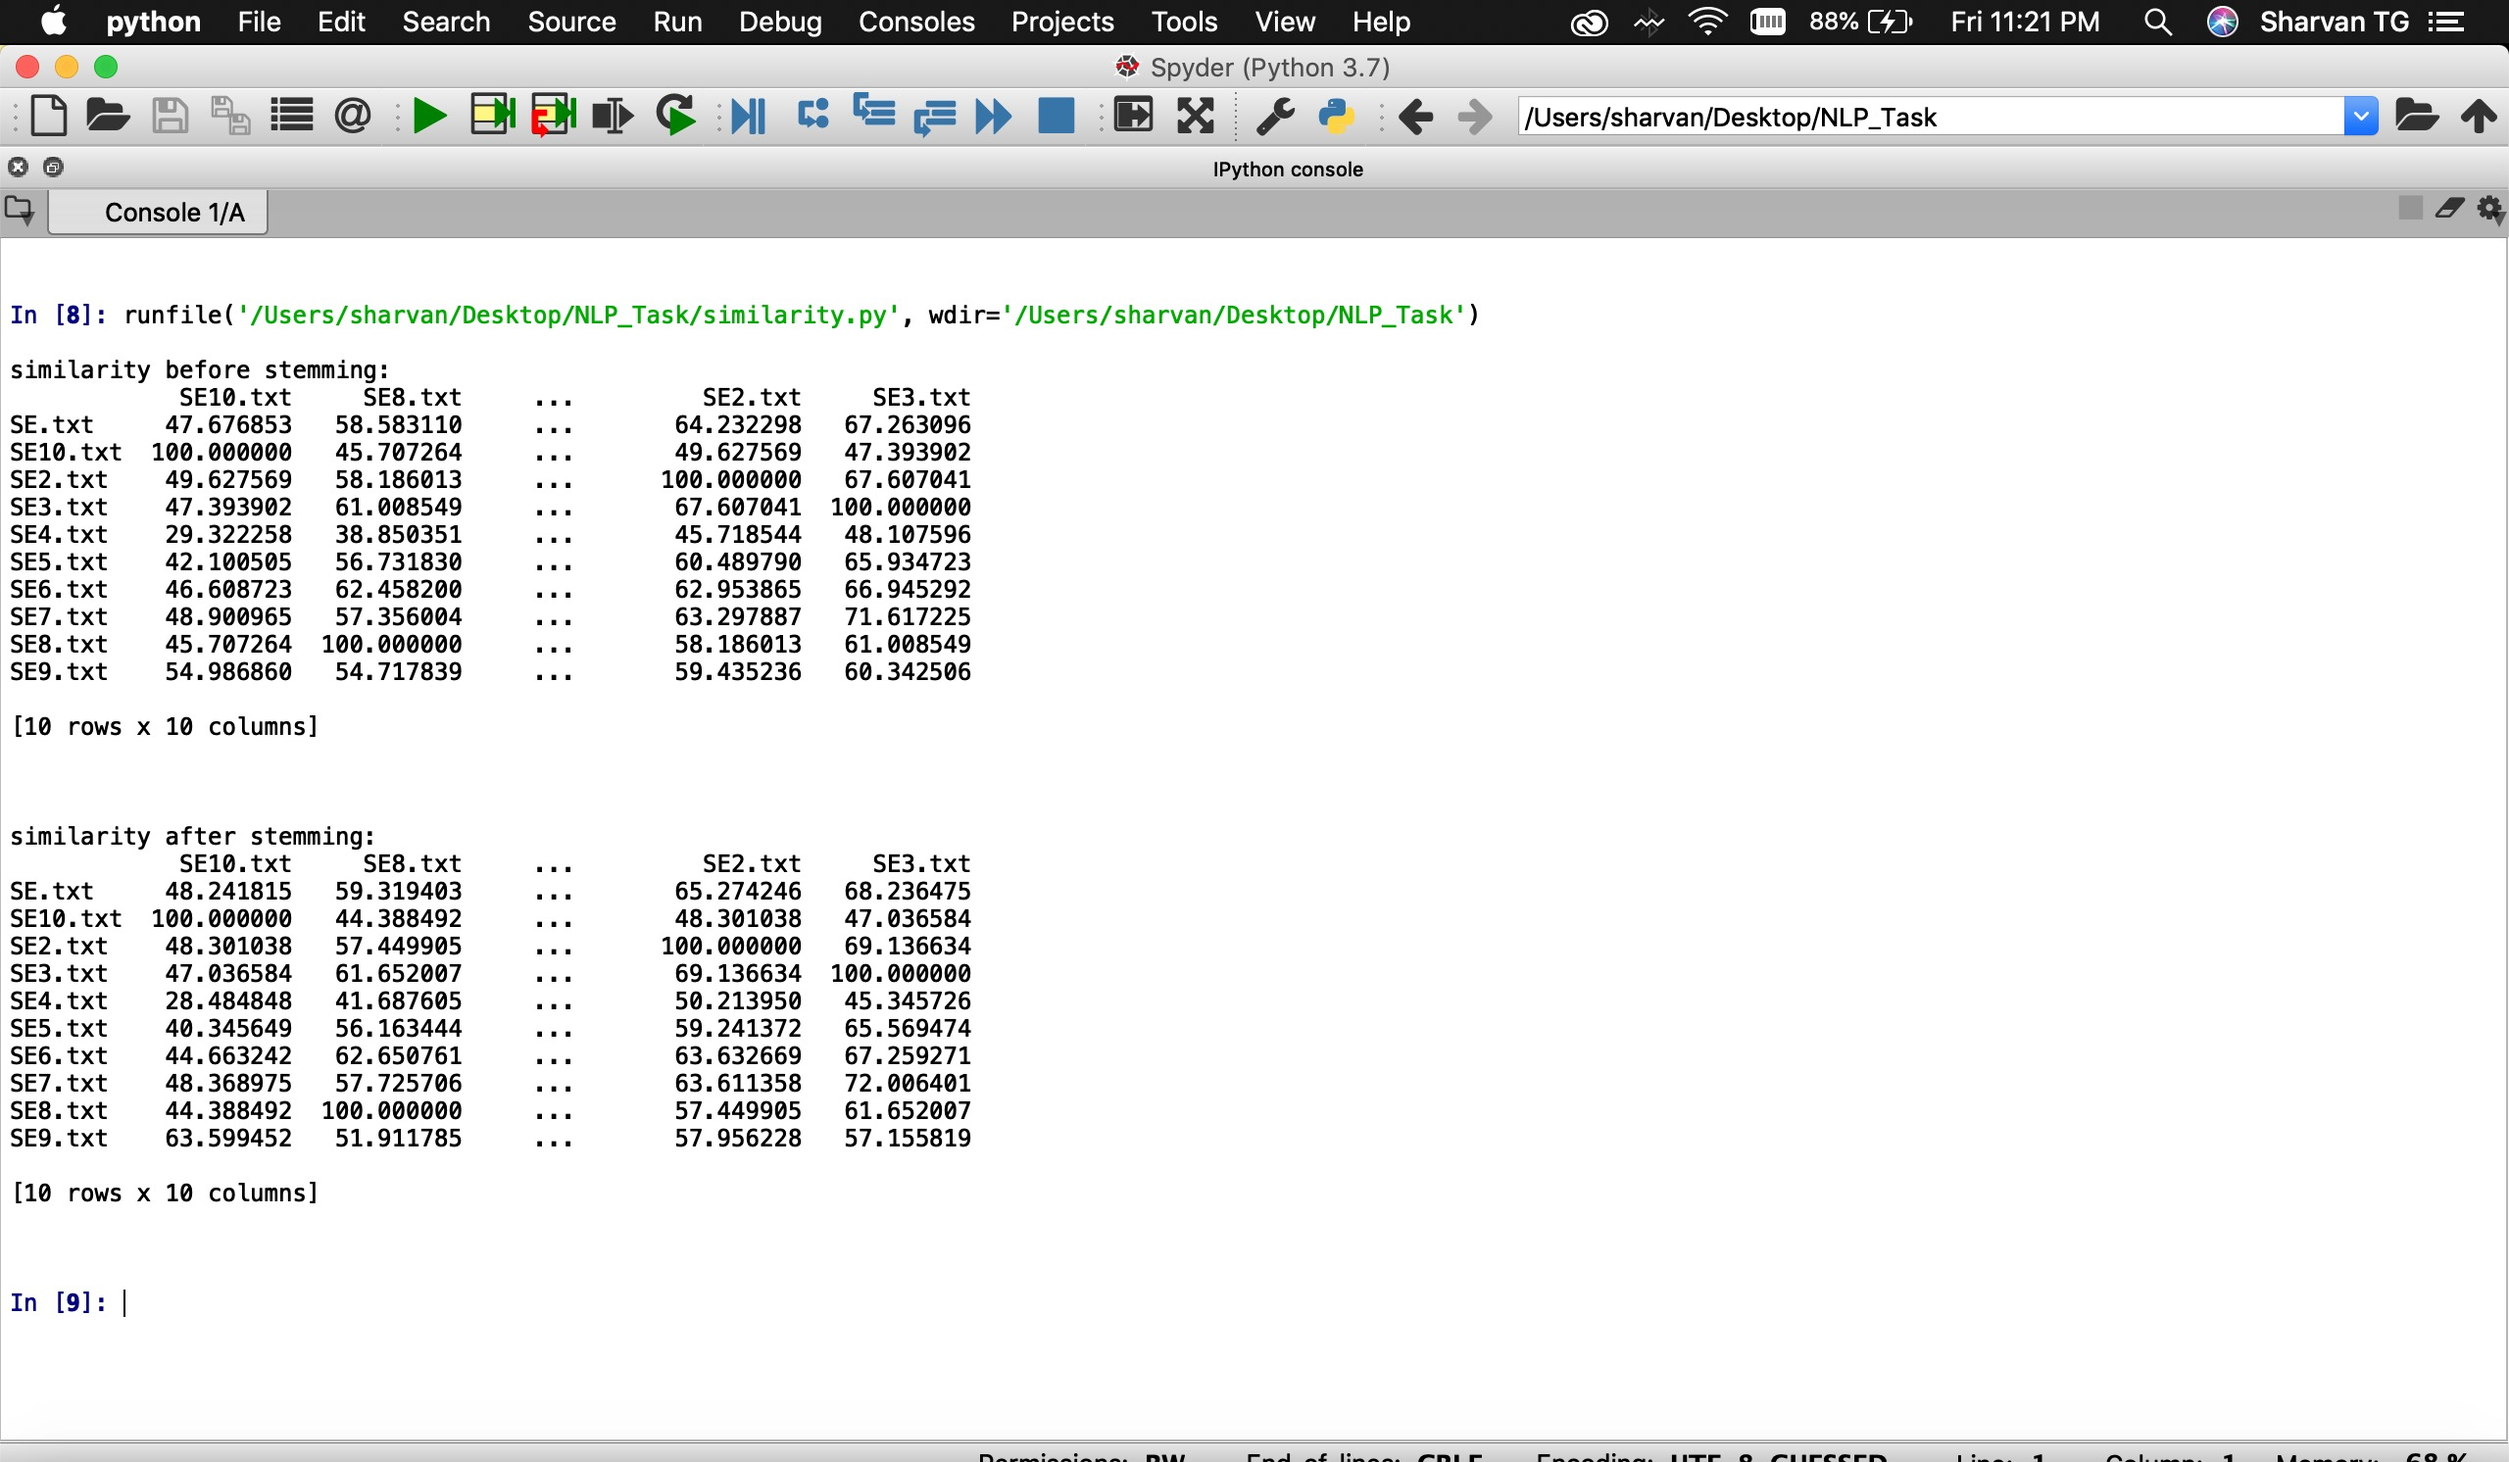
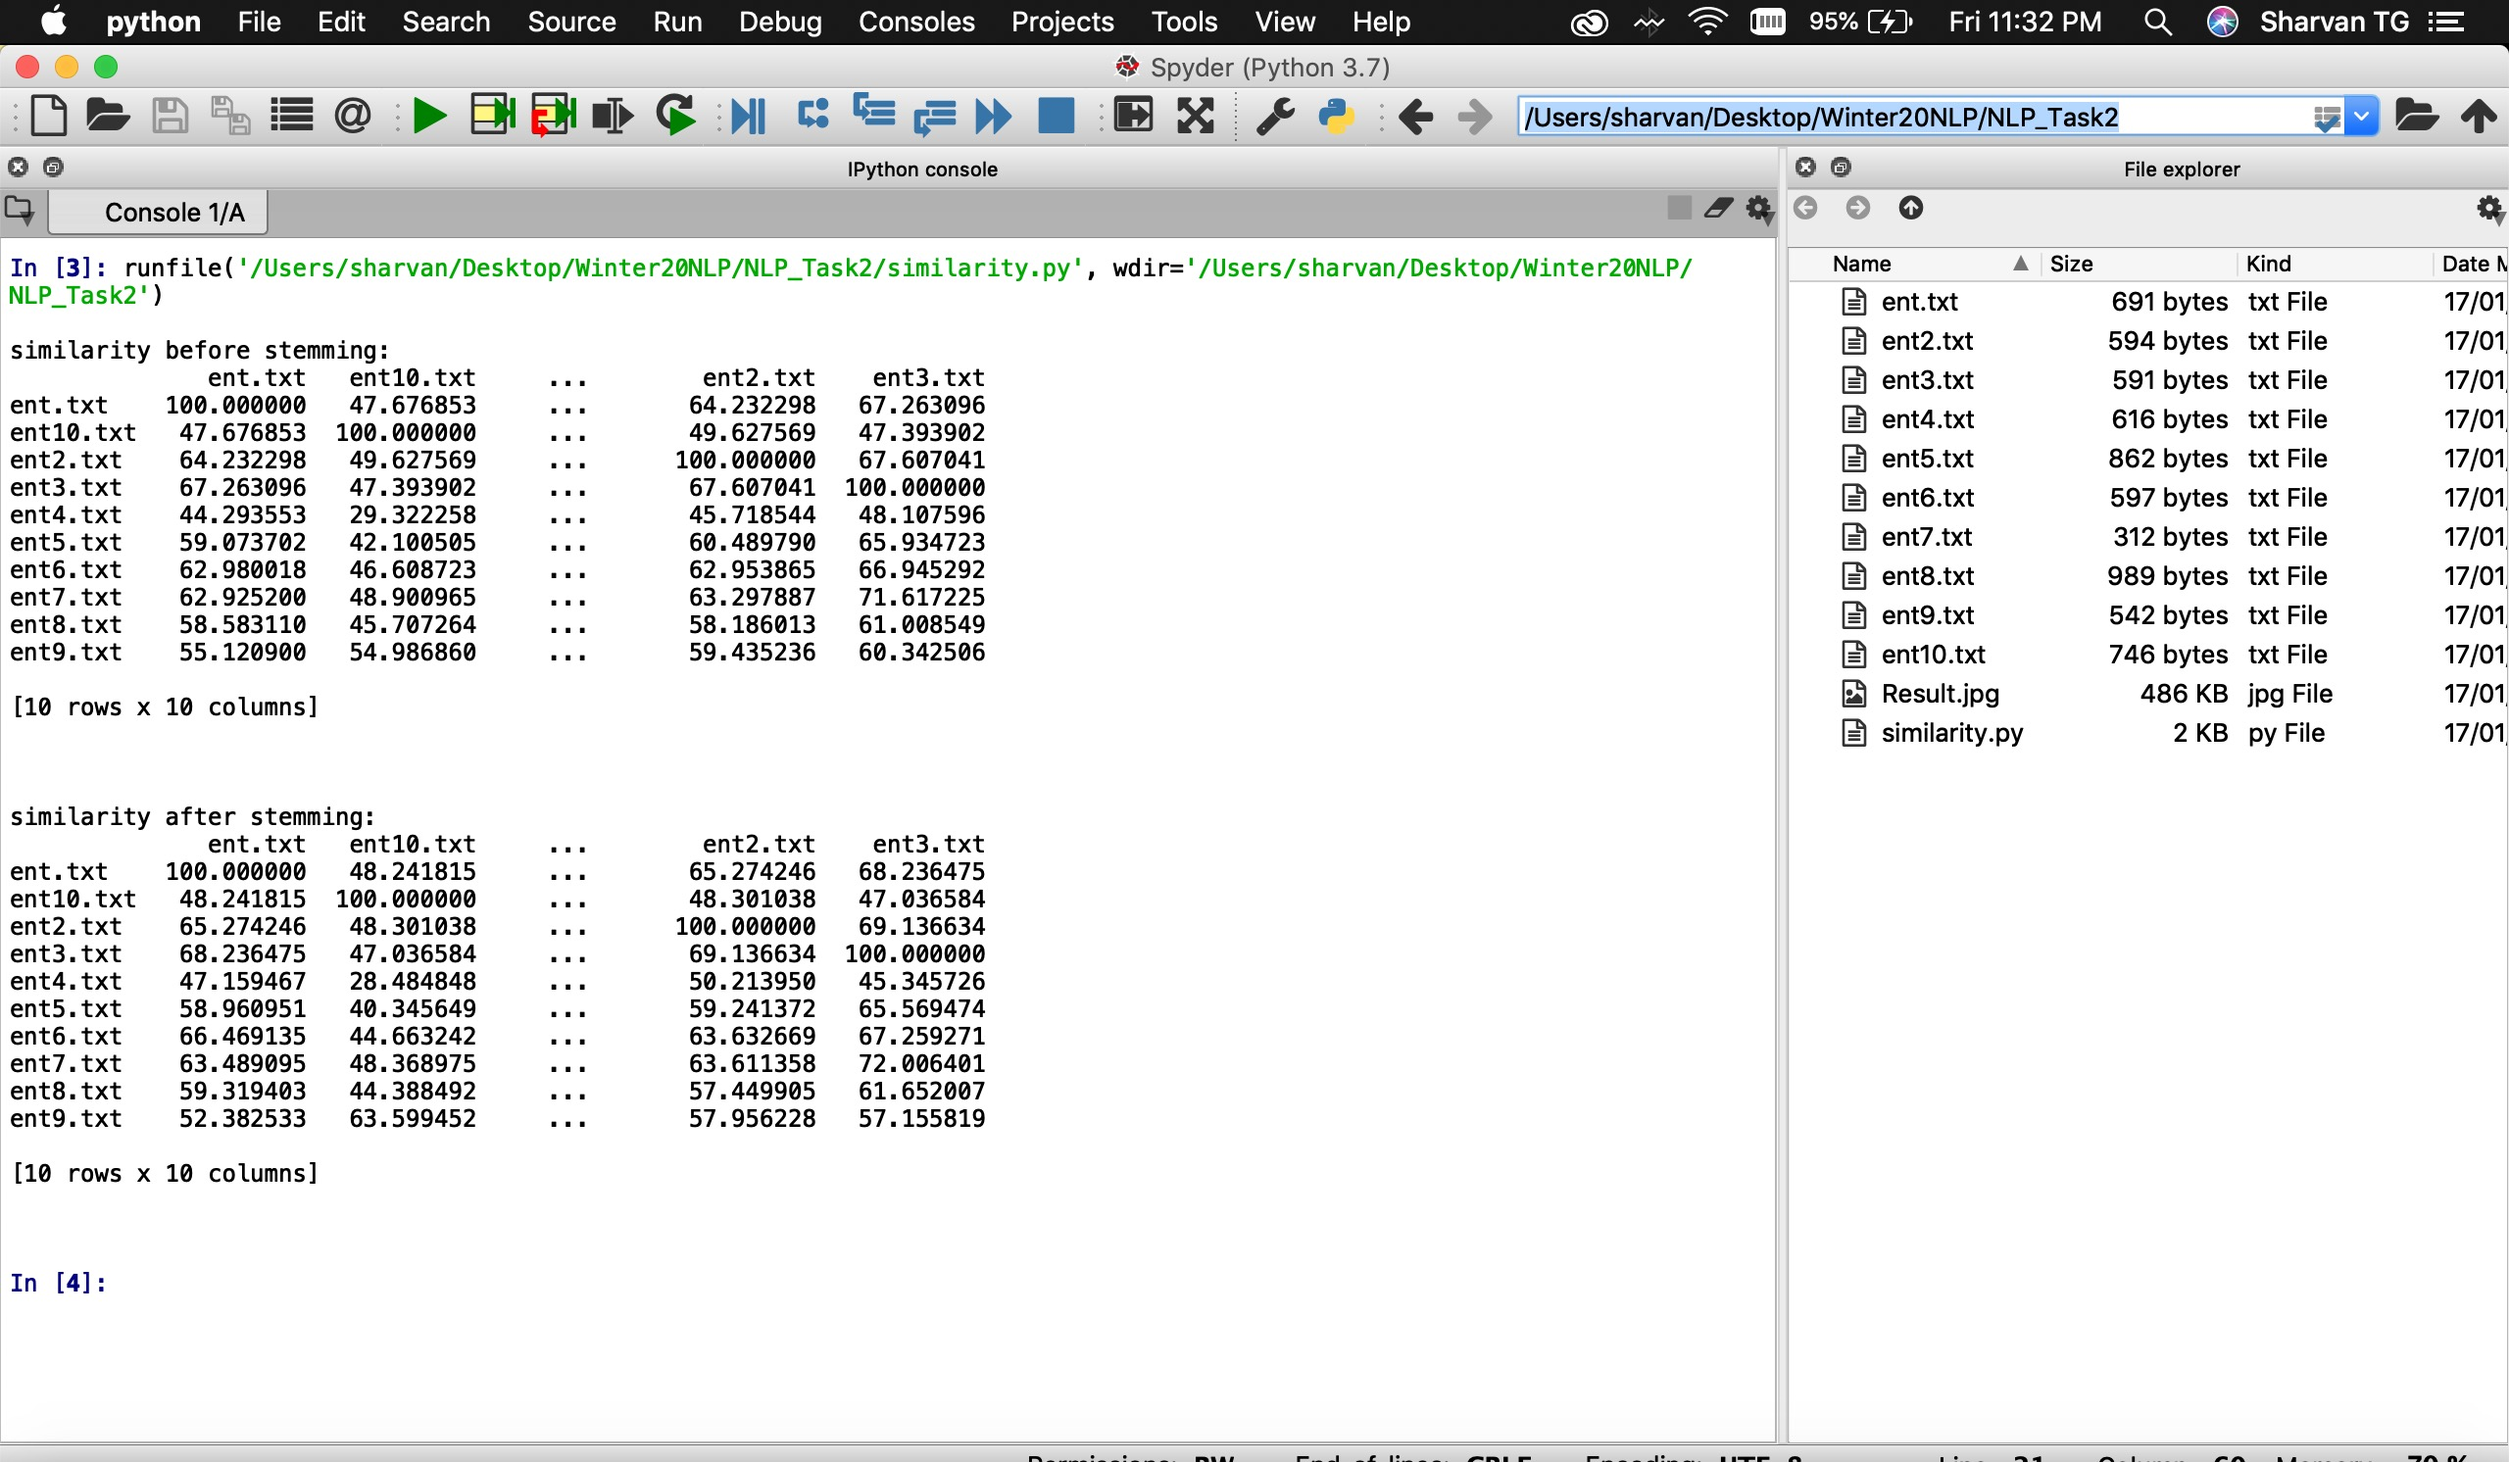
Second Task Completed

diff --git a/NLP_Task2/similarity.py b/NLP_Task2/similarity.py
@@ -18,7 +18,7 @@ import scipy
 stopwords = set(stopwords.words('english'))
 
 words=[]
-folder_path = "/Users/sharvan/Desktop/NLP_Task"
+folder_path = "/Users/sharvan/Desktop/Winter20NLP/NLP_Task2"
 file_list = os.listdir(folder_path)
 doc = []
 for i in file_list:
